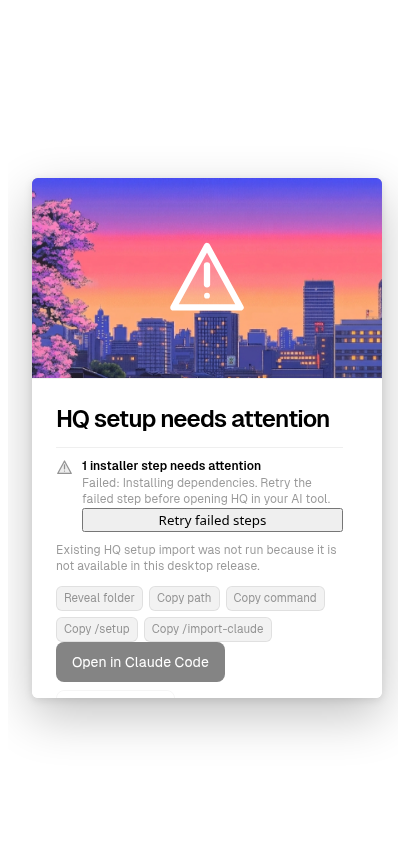
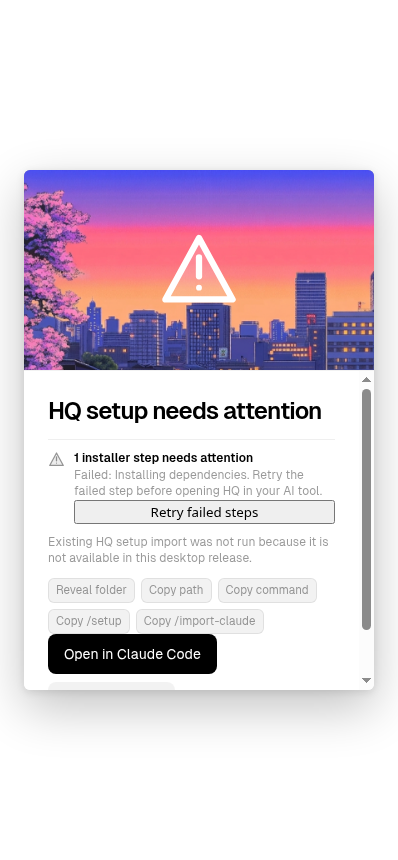
fix(onboarding): keep setup handoff available after failures

Changed region(s): [[0.0603, 0.1814, 0.9648, 0.8163]]

diff --git a/apps/sync/src/components/onboarding/OnboardingWizard.test.ts b/apps/sync/src/components/onboarding/OnboardingWizard.test.ts
@@ -275,18 +275,75 @@ describe('onboarding launch handoff', () => {
     expect(primaryButton().textContent).toBe('Install Claude Code');
   });
 
-  it('keeps manual tool installs available after a required setup failure', async () => {
+  it('policy: a failed required setup stage still completes and launches the setup handoff', async () => {
     const claudeDesktopOnly = {
       ...NO_AI_TOOLS,
       claude_desktop: true,
       any: true,
     };
+    const onfinish = vi.fn();
     tauri.invoke.mockImplementation(async (command: string) => {
       switch (command) {
         case 'resolve_hq_path':
           return '/placeholder/hq';
         case 'detect_ai_tools':
           return claudeDesktopOnly;
+        case 'install_deps':
+          throw new Error('dependency installation failed');
+        case 'detect_claude_desktop_connectors':
+          return { present: false, count: 0, path: '/placeholder/connectors' };
+        default:
+          return undefined;
+      }
+    });
+    component = mount(OnboardingWizard, {
+      target: host,
+      props: { initialStep: 2, onfinish },
+    });
+
+    await flushUntil(() =>
+      Boolean(host.querySelector('[data-testid="onboarding-consent"] input[value="decline"]')),
+    );
+    host
+      .querySelector<HTMLInputElement>('[data-testid="onboarding-consent"] input[value="decline"]')
+      ?.click();
+    host.querySelector<HTMLButtonElement>('[data-testid="consent-continue"]')?.click();
+    await vi.advanceTimersByTimeAsync(1_000);
+    await flushUntil(() => Boolean(host.querySelector('[data-testid="onboarding-setup-failures"]')));
+
+    const summary = host.querySelector('[data-testid="onboarding-summary"]');
+    const launchClaude = host.querySelector<HTMLButtonElement>(
+      '[data-testid="onboarding-launch-claude"]',
+    );
+    expect(summary?.textContent).toContain('Installing dependencies');
+    expect(summary?.textContent).toContain('1 installer step needs attention');
+    expect(
+      host.querySelector('[data-testid="onboarding-completion-warning-indicator"]'),
+    ).not.toBeNull();
+    expect(
+      host.querySelector('[data-testid="onboarding-completion-success-indicator"]'),
+    ).toBeNull();
+    expect(launchClaude?.disabled).toBe(false);
+    expect(
+      host.querySelector<HTMLButtonElement>('[data-testid="onboarding-install-codex"]')?.disabled,
+    ).toBe(false);
+
+    launchClaude?.click();
+    await flush();
+    await vi.advanceTimersByTimeAsync(1);
+    await flush();
+
+    expect(tauri.invoke).toHaveBeenCalledWith('open_claude_code_link', expect.any(Object));
+    expect(onfinish).toHaveBeenCalledOnce();
+  });
+
+  it('keeps the download handoff enabled after a required setup failure while tool detection is pending', async () => {
+    tauri.invoke.mockImplementation(async (command: string) => {
+      switch (command) {
+        case 'resolve_hq_path':
+          return '/placeholder/hq';
+        case 'detect_ai_tools':
+          return new Promise<never>(() => {});
         case 'install_deps':
           throw new Error('dependency installation failed');
         case 'detect_claude_desktop_connectors':
@@ -310,13 +367,15 @@ describe('onboarding launch handoff', () => {
     await vi.advanceTimersByTimeAsync(1_000);
     await flushUntil(() => Boolean(host.querySelector('[data-testid="onboarding-setup-failures"]')));
 
-    expect(host.querySelector('[data-testid="onboarding-launch-download"]')).toBeNull();
-    expect(
-      host.querySelector<HTMLButtonElement>('[data-testid="onboarding-launch-claude"]')?.disabled,
-    ).toBe(true);
-    expect(
-      host.querySelector<HTMLButtonElement>('[data-testid="onboarding-install-codex"]')?.disabled,
-    ).toBe(false);
+    const download = host.querySelector<HTMLButtonElement>(
+      '[data-testid="onboarding-launch-download"]',
+    );
+    expect(download).not.toBeNull();
+    expect(download?.disabled).toBe(false);
+
+    download?.click();
+    await flush();
+    expect(tauri.open).toHaveBeenCalledWith('https://claude.ai/download');
   });
 
   it('uses an alert completion icon after required setup failure and keeps the success check for clean setup', async () => {

diff --git a/apps/sync/src/components/onboarding/OnboardingWizard.svelte b/apps/sync/src/components/onboarding/OnboardingWizard.svelte
@@ -1299,7 +1299,7 @@
   }
 
   async function finishWithRecovery(): Promise<boolean> {
-    if (finishing || needsAttention) return false;
+    if (finishing) return false;
     finishing = true;
     finishError = false;
     try {
@@ -1580,7 +1580,6 @@
   }
 
   function handleLaunch(kind: LaunchKind | 'download') {
-    if (needsAttention) return;
     if (launching === 'watching' || kind === 'download') {
       return handleDownloadClaude();
     }
@@ -2373,7 +2372,7 @@
                 class="btn btn-primary"
                 type="button"
                 data-testid="onboarding-launch-download"
-                disabled={needsAttention || finishing || (launching !== null && launching !== 'watching')}
+                disabled={finishing || (launching !== null && launching !== 'watching')}
                 aria-busy={finishing || (launching !== null && launching !== 'watching')}
                 onclick={() => void handleLaunch('download')}
               >
@@ -2392,7 +2391,7 @@
                     class="btn {slot.kind === primaryLaunch.kind ? 'btn-primary' : 'btn-secondary'}"
                     type="button"
                     data-testid="onboarding-launch-{slot.kind}"
-                    disabled={needsAttention || finishing || (launching !== null && launching !== 'watching')}
+                    disabled={finishing || (launching !== null && launching !== 'watching')}
                     aria-busy={finishing || launching === slot.kind}
                     onclick={() => void handleLaunch(slot.kind)}
                   >

diff --git a/apps/sync/src/lib/onboarding-stub-stages.test.ts b/apps/sync/src/lib/onboarding-stub-stages.test.ts
@@ -82,9 +82,10 @@ describe('honest onboarding stage reporting', () => {
     expect(wizard).toContain('Needs attention');
     expect(wizard).toContain('Retry failed steps');
     expect(wizard).toContain('Existing HQ setup import was not run');
-    expect(wizard).toContain('if (finishing || needsAttention) return false;');
-    expect(wizard).toContain('if (needsAttention) return;');
-    expect(wizard).toContain('disabled={needsAttention || finishing');
+    expect(wizard).toContain('if (finishing) return false;');
+    expect(wizard).not.toContain('if (finishing || needsAttention) return false;');
+    expect(wizard).not.toContain('if (needsAttention) return;');
+    expect(wizard).toContain('disabled={finishing ||');
     expect(wizard).toContain('data-testid="onboarding-install-{slot.kind}"\n                    disabled={finishing}');
     expect(wizard).toContain(
       'if (!result.needsAttention) {\n        await journalInstallComplete();\n      }',
